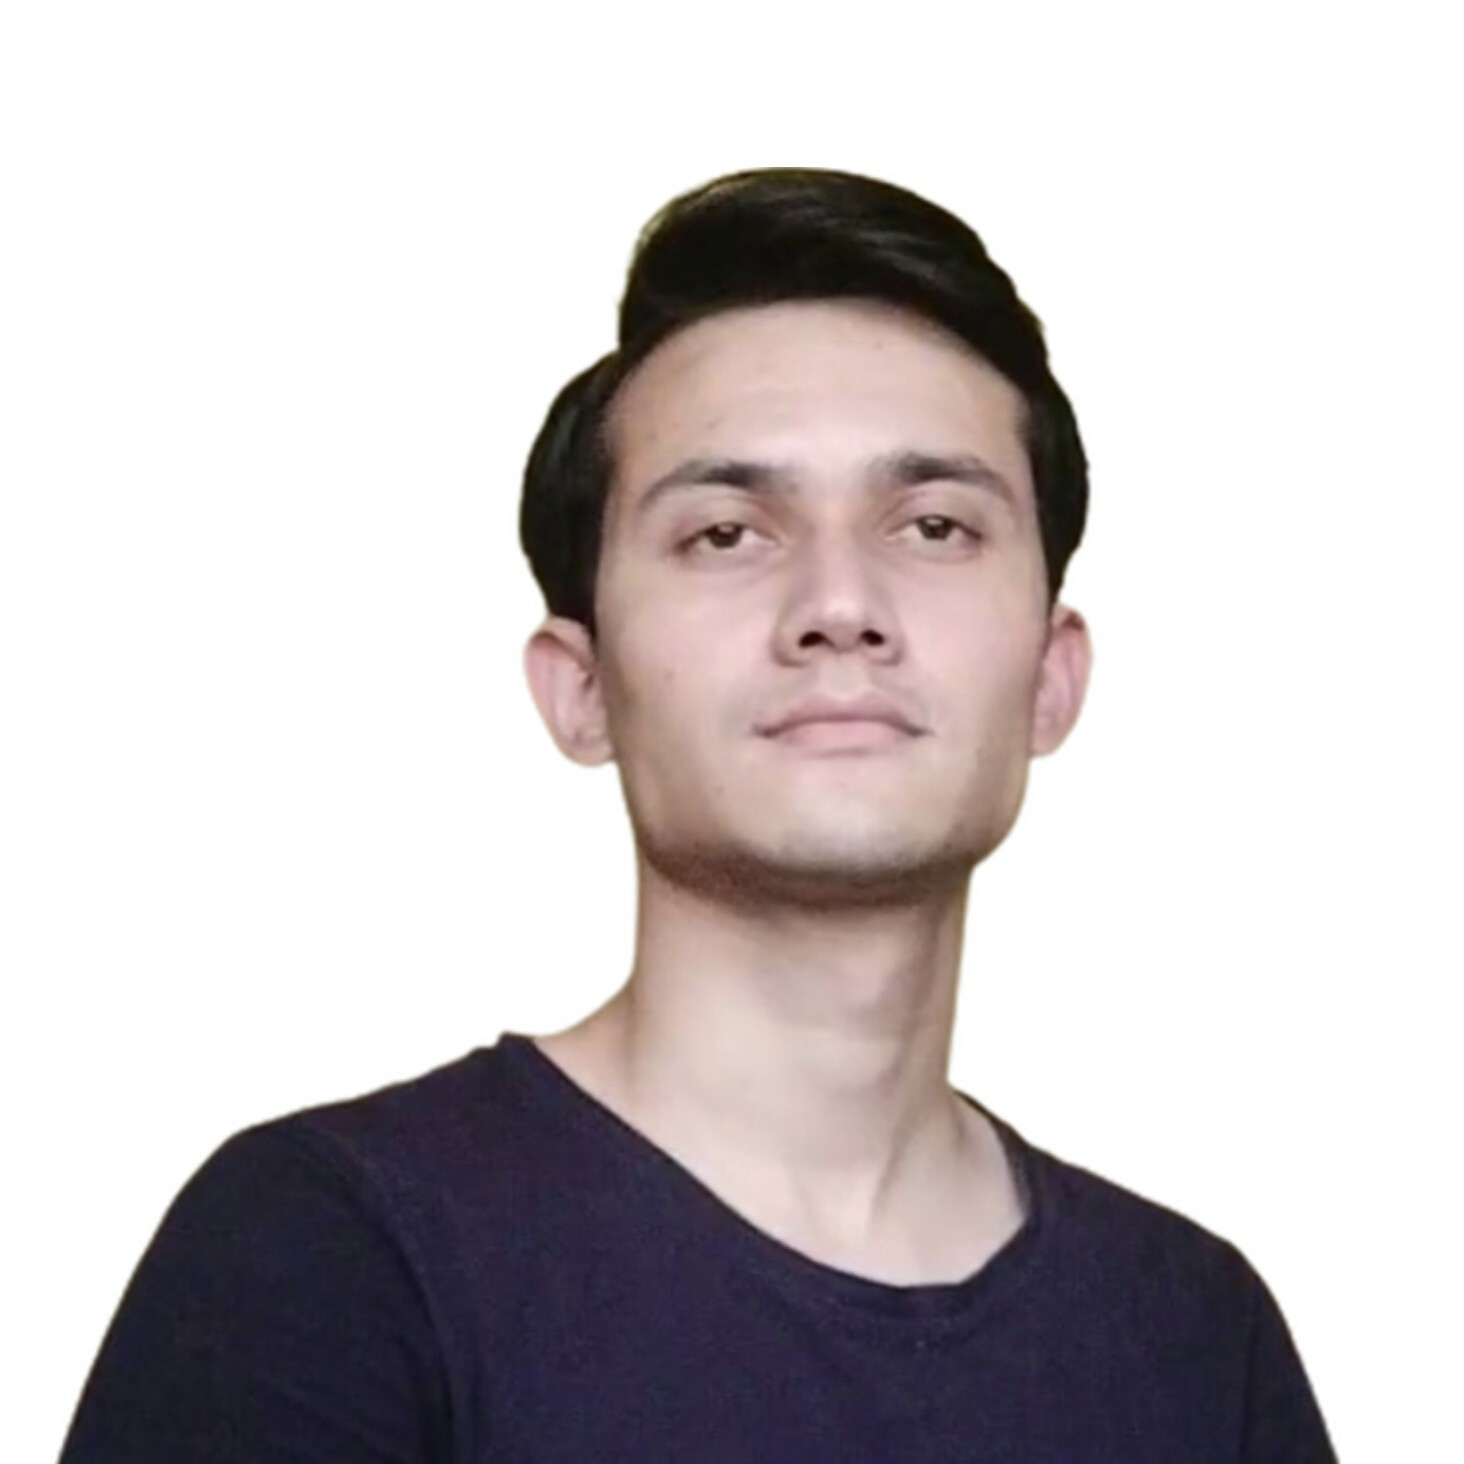
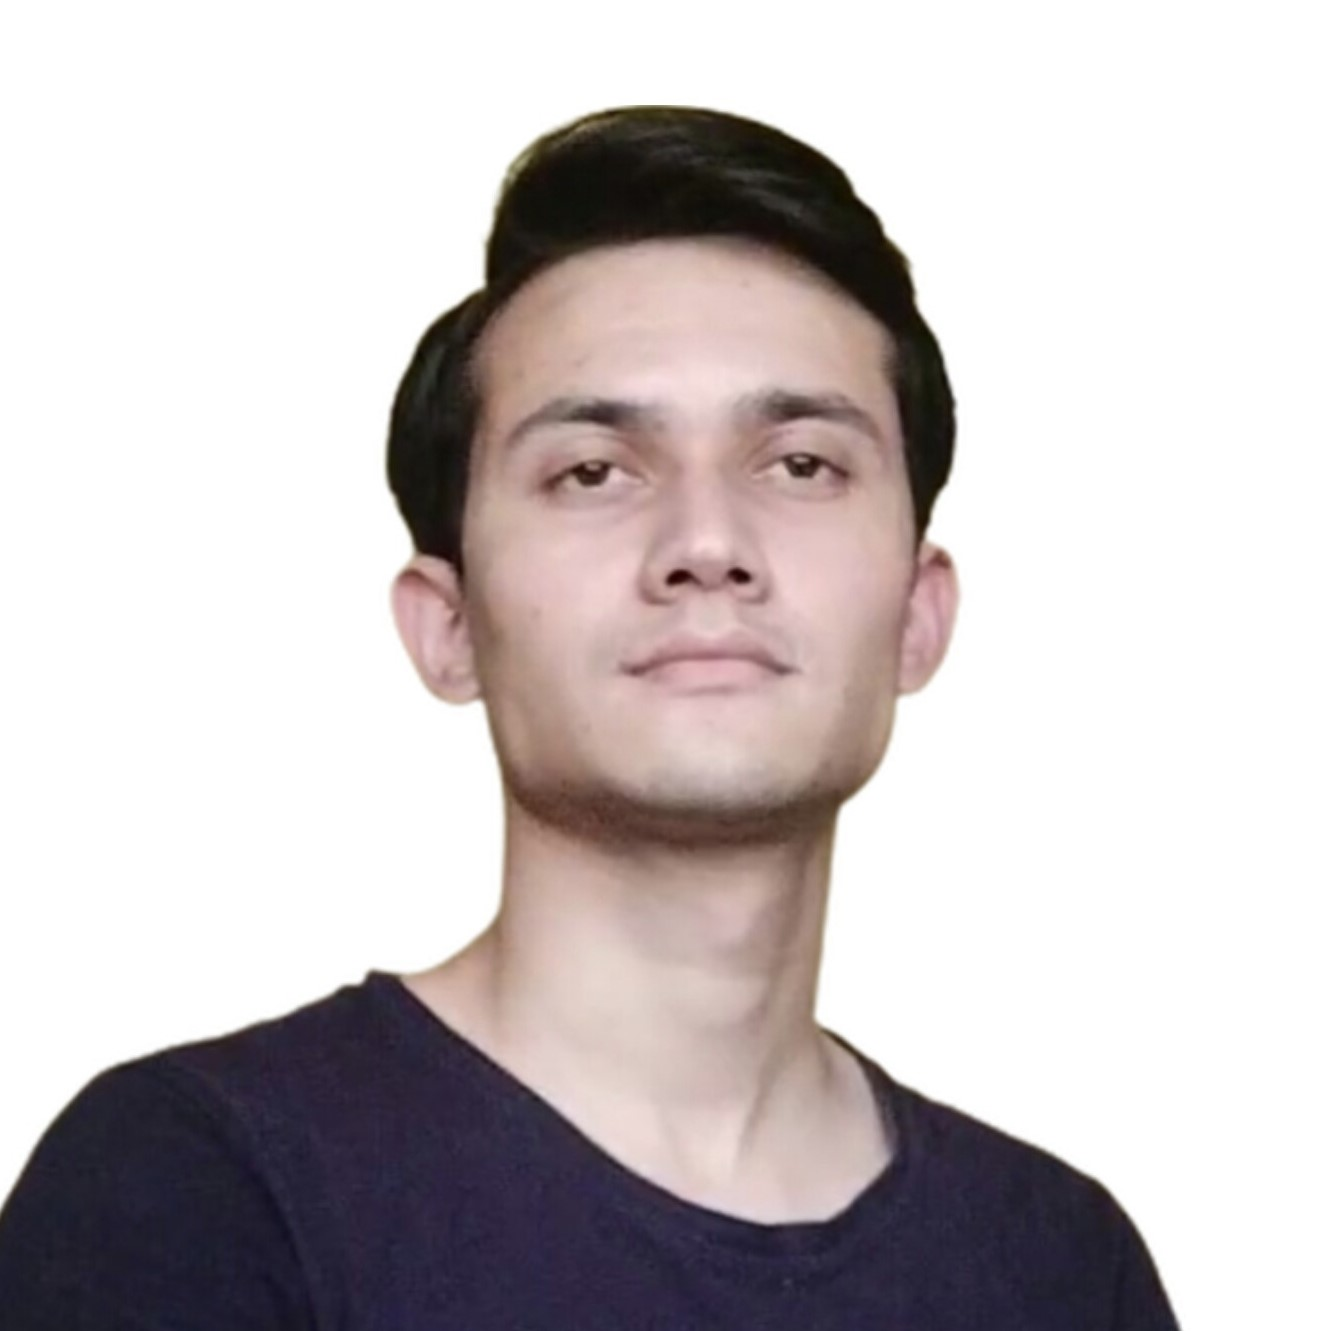
update website

diff --git a/src/components/nav/nav.css b/src/components/nav/nav.css
@@ -1,68 +1,35 @@
-nav{
-    background: rgba(17, 34, 64, 0.6);
+nav {
+    background: rgba(0, 0, 0, 0.3);
+    backdrop-filter: blur(15px);
     width: max-content;
     display: block;
-    padding: 0.6rem;
+    padding: 0.7rem 1.7rem;
     z-index: 2;
     position: fixed;
     left: 50%;
     transform: translateX(-50%);
     bottom: 2rem;
     display: flex;
-    gap: 0.4rem;
-    border-radius: 0.75rem;
-    backdrop-filter: blur(15px);
-    border: 1px solid rgba(100, 255, 218, 0.1);
-    box-shadow: 0 4px 20px rgba(0, 0, 0, 0.2);
-    transition: var(--transition);
+    gap: 0.8rem;
+    border-radius: 0.5rem; /* Changed from 3rem to 0.5rem to make it rectangular */
+    box-shadow: 0 10px 25px rgba(0, 0, 0, 0.5);
+    border: 1px solid rgba(80, 250, 123, 0.15);
 }
 
-nav:hover {
-    border-color: rgba(100, 255, 218, 0.3);
-}
-
-nav a{
+nav a {
     background: transparent;
-    padding: 0.8rem;
-    border-radius: 0.5rem;
+    padding: 0.9rem;
+    border-radius: 50%;
     display: flex;
     color: var(--color-light);
     font-size: 1.1rem;
-    transition: var(--transition);
-    position: relative;
 }
 
-nav a::after {
-    content: '';
-    position: absolute;
-    width: 0;
-    height: 2px;
-    background: var(--color-primary);
-    bottom: 0;
-    left: 50%;
-    transform: translateX(-50%);
-    transition: var(--transition);
-    opacity: 0;
+nav a:hover {
+    background: rgba(0, 0, 0, 0.3);
 }
 
 nav a.active {
-    color: var(--color-primary);
-}
-
-nav a.active::after {
-    width: 60%;
-    opacity: 1;
-}
-
-/* ================= MEDIA QUERIES (LARGE DEVICES) ================== */
-@media screen and (min-width: 1025px){
-    nav a:hover{
-        color: var(--color-primary);
-        transform: translateY(-3px);
-    }
-    
-    nav a:hover::after {
-        width: 60%;
-        opacity: 1;
-    }
+    background: var(--color-primary);
+    color: var(--color-bg);
 }

diff --git a/src/components/about/about.css b/src/components/about/about.css
@@ -19,41 +19,29 @@
 .about__me{
     width: 100%;
     aspect-ratio: 1/1;
-    border-radius: 0.75rem;
-    background: linear-gradient(45deg, transparent, var(--color-bg-variant));
     display: grid;
     place-items: center;
     position: relative;
-    z-index: 1;
 }
 
 .about__me::before {
-    content: '';
-    position: absolute;
-    top: 20px;
-    left: 20px;
-    width: 100%;
-    height: 100%;
-    border: 1px solid var(--color-primary);
-    border-radius: 0.75rem;
-    z-index: -1;
-    transition: var(--transition);
-}
-
-.about__me:hover::before {
-    top: 15px;
-    left: 15px;
+    display: none;
 }
 
 .about__me-image{
-    border-radius: 0.75rem;
+    border-radius: 50%;
     overflow: hidden;
     transition: var(--transition);
-    border: 4px solid var(--color-bg-variant);
+    border: 5px solid black;
+    max-width: 85%;
+    box-shadow: 0 8px 25px rgba(0, 0, 0, 0.3);
 }
 
-.about__me-image:hover {
-    transform: scale(1.02);
+.about__me-image img {
+    border-radius: 50%;
+    width: 100%;
+    height: auto;
+    display: block;
 }
 
 .about__cards{
@@ -63,20 +51,21 @@
 }
 
 .about__card{
-    background: var(--color-card);
-    border: 1px solid transparent;
+    background: var(--color-bg-variant);
+    border: 1px solid rgba(80, 250, 123, 0.2);
     border-radius: 0.5rem;
     padding: 1.5rem;
     text-align: center;
     transition: var(--transition);
     backdrop-filter: blur(4px);
-    box-shadow: 0 4px 10px rgba(0, 0, 0, 0.1);
+    box-shadow: 0 4px 15px rgba(0, 0, 0, 0.3);
 }
 
 .about__card:hover{
-    background: rgba(17, 34, 64, 0.9);
-    border-color: var(--color-primary-variant);
-    transform: translateY(-5px);
+    background: rgba(26, 26, 26, 0.95);
+    border-color: var(--color-primary);
+    transform: translateY(-8px);
+    box-shadow: 0 10px 20px rgba(80, 250, 123, 0.15);
 }
 
 .about__icon{

diff --git a/src/components/portfolio/portfolio.css b/src/components/portfolio/portfolio.css
@@ -19,22 +19,23 @@
 }
 
 .portfolio__item{
-    background: var(--color-card);
+    background: rgba(15, 15, 15, 0.8);
     padding: 1.2rem;
     border-radius: 0.75rem;
-    border: 1px solid rgba(100, 255, 218, 0.1);
+    border: 1px solid rgba(80, 250, 123, 0.1);
     transition: var(--transition);
     position: relative;
     overflow: hidden;
-    box-shadow: 0 4px 15px rgba(0, 0, 0, 0.15);
+    box-shadow: 0 8px 20px rgba(0, 0, 0, 0.25);
     display: flex;
     flex-direction: column;
+    backdrop-filter: blur(8px);
 }
 
 .portfolio__item:hover{
-    transform: translateY(-5px);
-    border-color: var(--color-primary-variant);
-    box-shadow: 0 8px 20px rgba(0, 0, 0, 0.2);
+    transform: translateY(-8px);
+    border-color: var(--color-primary);
+    box-shadow: 0 15px 30px rgba(0, 0, 0, 0.3), 0 0 15px rgba(80, 250, 123, 0.2);
 }
 
 .portfolio__item-image{
@@ -80,13 +81,14 @@
 }
 
 .tech-tag {
-    background: rgba(17, 34, 64, 0.8);
+    background: rgba(15, 15, 15, 0.7);
     color: var(--color-primary);
     padding: 0.2rem 0.6rem;
     border-radius: 0.25rem;
     font-size: 0.7rem;
     font-weight: 500;
     letter-spacing: 0.5px;
+    border: 1px solid rgba(80, 250, 123, 0.15);
 }
 
 /* ================= MEDIA QUERIES (MEDIUM DEVICES) ================== */

diff --git a/src/index.css b/src/index.css
@@ -11,14 +11,14 @@
 }
 
 :root{
-    --color-bg: #0a192f;
-    --color-bg-variant: #112240;
-    --color-primary: #64ffda;
-    --color-primary-variant: rgba(100, 255, 218, 0.7);
-    --color-white: #e6f1ff;
-    --color-light: rgba(230, 241, 255, 0.7);
-    --color-dark: #020c1b;
-    --color-card: rgba(17, 34, 64, 0.7);
+    --color-bg: #0f0f0f; /* Darker background for a sleeker look */
+    --color-bg-variant: #1a1a1a; /* Slightly lighter than bg for contrast */
+    --color-primary: #50fa7b; /* Changed to a vibrant green */
+    --color-primary-variant: rgba(80, 250, 123, 0.7); /* Transparent version of green */
+    --color-white: #f8f8f8; /* Off-white for text */
+    --color-light: rgba(248, 248, 248, 0.7); /* Transparent version of white */
+    --color-dark: #070707; /* Very dark shade */
+    --color-card: rgba(30, 30, 30, 0.7); /* Card background */
 
     --transition: all 300ms cubic-bezier(0.4, 0, 0.2, 1);
 
@@ -41,7 +41,8 @@ body{
     color: var(--color-white);
     line-height: 1.7;
     background-image: url(../src/assets/img/bg-texture.png);
-    background-blend-mode: multiply;
+    background-blend-mode: overlay; /* Changed from multiply for better contrast */
+    background-size: cover;
 }
 
 /* =============== GENERAL STYLES ================ */

diff --git a/src/components/header/header.css b/src/components/header/header.css
@@ -21,19 +21,16 @@ header::before {
     right: 0;
     bottom: 0;
     background-image: 
-        linear-gradient(rgba(10, 25, 47, 0.9) 1px, transparent 1px),
-        linear-gradient(90deg, rgba(10, 25, 47, 0.9) 1px, transparent 1px);
+        linear-gradient(rgba(80, 250, 123, 0.1) 1px, transparent 1px),
+        linear-gradient(90deg, rgba(80, 250, 123, 0.1) 1px, transparent 1px);
     background-size: 40px 40px;
-    opacity: 0.15;
+    opacity: 0.2;
     z-index: 0;
 }
 
 /* Glowing accent for header */
 header h1 {
-    background: linear-gradient(90deg, var(--color-white) 0%, var(--color-primary) 100%);
-    background-clip: text;
-    -webkit-background-clip: text;
-    -webkit-text-fill-color: transparent;
+    color: var(--color-white); /* Using white color instead of gradient */
     display: inline-block;
     position: relative;
     margin-bottom: 0.5rem;
